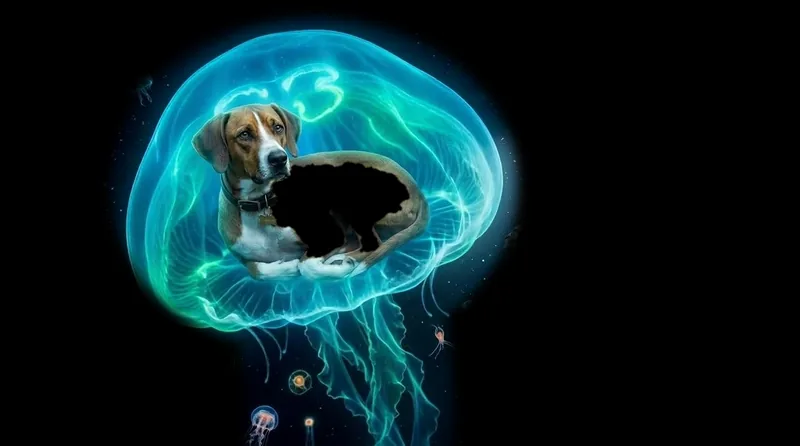
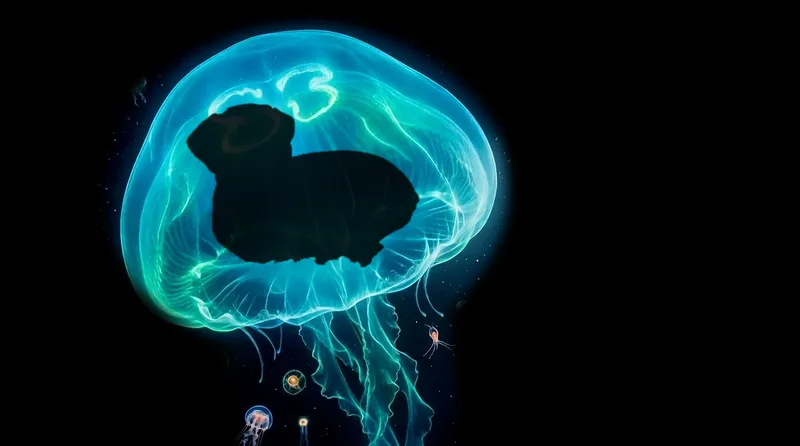
Catalog header: rebuild on the new background, every character on its own layer
- plate: the new background (light shaft, cave wall, small sea life)
  with its big jellyfish faded back to water
- the big jellyfish (screened) and Marley float together; Marley recut
  cleanly with GrabCut (the old colour mask missed her head and white
  fur, hidden until now by the original picture underneath)
- the diver with the cube is its own layer with a slow bob of its own,
  feathered so it blends into the new water
- three small drifters (moon jelly, comb jelly, blue jelly) cross slowly

Claude-Session: https://claude.ai/code/session_0195hiXiVZY5DpQ2CCYEr2vL

diff --git a/index.html b/index.html
@@ -4,7 +4,7 @@
 <meta charset="UTF-8">
 <meta name="viewport" content="width=device-width, initial-scale=1">
 <title>Parts Catalog — Christian Gehrke</title>
-<link rel="stylesheet" href="css/catalog.css?v=1793560000">
+<link rel="stylesheet" href="css/catalog.css?v=1793570000">
 <link rel="stylesheet" href="css/logo.css?v=5">
 <link rel="icon" href="/favicon.ico?v=2" sizes="any"><link rel="icon" href="/favicon.svg?v=2" type="image/svg+xml"><link rel="apple-touch-icon" href="/apple-touch-icon.png?v=2">
 <script>/* Logo season from the calendar (the homepage sets it from its own scene). */document.documentElement.dataset.season=["winter","winter","spring","spring","spring","summer","summer","summer","fall","fall","fall","winter"][new Date().getMonth()];</script>
@@ -13,7 +13,7 @@
 <body class="deep">
 
 <header class="cat-head cat-hero">
-  <div class="hero-stage" aria-hidden="true"><img src="assets/hero/plate.webp" srcset="assets/hero/plate-800.webp 800w, assets/hero/plate.webp 1376w" sizes="max(100vw, 760px)" alt=""><img class="hero-jelly hero-float" src="assets/hero/jelly.webp" srcset="assets/hero/jelly-800.webp 800w, assets/hero/jelly.webp 1376w" sizes="max(100vw, 760px)" alt=""><img class="hero-float" src="assets/hero/dog.webp" srcset="assets/hero/dog-800.webp 800w, assets/hero/dog.webp 1376w" sizes="max(100vw, 760px)" alt=""><svg class="hero-fx" viewBox="0 0 1376 768" preserveAspectRatio="xMidYMid slice"><defs><radialGradient id="hLamp"><stop offset="0" stop-color="#eaf8ff" stop-opacity=".9"/><stop offset=".35" stop-color="#8fd8ff" stop-opacity=".4"/><stop offset="1" stop-color="#3aa0ff" stop-opacity="0"/></radialGradient><radialGradient id="hCube"><stop offset="0" stop-color="#c58bff" stop-opacity=".75"/><stop offset=".45" stop-color="#6fd6ff" stop-opacity=".3"/><stop offset="1" stop-color="#5a3cff" stop-opacity="0"/></radialGradient><radialGradient id="hJelly"><stop offset="0" stop-color="#7fffe0" stop-opacity=".42"/><stop offset=".6" stop-color="#2fd0c8" stop-opacity=".18"/><stop offset="1" stop-color="#0a8fb0" stop-opacity="0"/></radialGradient><radialGradient id="hRay" cx=".5" cy="0" r="1"><stop offset="0" stop-color="#9fe6ff" stop-opacity=".35"/><stop offset="1" stop-color="#2a7fc0" stop-opacity="0"/></radialGradient></defs><ellipse class="hero-glow hero-ray" cx="1080" cy="0" rx="300" ry="420" fill="url(#hRay)"/><g class="hero-float"><circle class="hero-glow hero-g-jelly" cx="538" cy="318" r="330" fill="url(#hJelly)"/></g><circle class="hero-glow hero-g-lamp" cx="920" cy="165" r="95" fill="url(#hLamp)"/><circle class="hero-glow hero-g-lamp2" cx="1158" cy="290" r="88" fill="url(#hLamp)"/><circle class="hero-glow hero-g-cube" cx="875" cy="520" r="150" fill="url(#hCube)"/><g class="hero-snow" fill="#cfefff"><circle cx="705" cy="524" r="1.3" style="animation-duration:20.3s;animation-delay:-20.2s"/><circle cx="221" cy="603" r="1.8" style="animation-duration:23.6s;animation-delay:-22.4s"/><circle cx="75" cy="443" r="2.1" style="animation-duration:15.1s;animation-delay:-8.9s"/><circle cx="1250" cy="371" r="2.1" style="animation-duration:18.1s;animation-delay:-24.0s"/><circle cx="1116" cy="94" r="1.2" style="animation-duration:17.8s;animation-delay:-4.6s"/><circle cx="160" cy="641" r="1.0" style="animation-duration:22.3s;animation-delay:-25.9s"/><circle cx="330" cy="737" r="0.9" style="animation-duration:25.8s;animation-delay:-13.9s"/><circle cx="831" cy="32" r="1.1" style="animation-duration:21.1s;animation-delay:-21.5s"/><circle cx="933" cy="666" r="1.4" style="animation-duration:14.7s;animation-delay:-23.8s"/><circle cx="67" cy="505" r="1.3" style="animation-duration:16.5s;animation-delay:-25.5s"/><circle cx="1155" cy="135" r="1.7" style="animation-duration:23.5s;animation-delay:-2.8s"/><circle cx="889" cy="381" r="1.0" style="animation-duration:24.1s;animation-delay:-7.7s"/><circle cx="928" cy="635" r="2.0" style="animation-duration:25.7s;animation-delay:-11.8s"/><circle cx="999" cy="705" r="1.8" style="animation-duration:19.7s;animation-delay:-7.6s"/><circle cx="826" cy="150" r="1.0" style="animation-duration:23.9s;animation-delay:-13.8s"/><circle cx="367" cy="642" r="2.1" style="animation-duration:24.4s;animation-delay:-4.7s"/><circle cx="1007" cy="278" r="1.5" style="animation-duration:20.6s;animation-delay:-13.1s"/><circle cx="129" cy="364" r="1.8" style="animation-duration:22.0s;animation-delay:-19.8s"/><circle cx="744" cy="572" r="1.8" style="animation-duration:17.4s;animation-delay:-12.6s"/><circle cx="601" cy="348" r="1.7" style="animation-duration:21.0s;animation-delay:-0.3s"/><circle cx="1120" cy="256" r="1.3" style="animation-duration:17.3s;animation-delay:-7.5s"/><circle cx="1024" cy="662" r="1.7" style="animation-duration:18.3s;animation-delay:-7.1s"/><circle cx="707" cy="755" r="2.1" style="animation-duration:18.9s;animation-delay:-24.0s"/><circle cx="353" cy="704" r="1.4" style="animation-duration:18.4s;animation-delay:-8.7s"/><circle cx="290" cy="542" r="2.2" style="animation-duration:16.4s;animation-delay:-9.4s"/><circle cx="977" cy="289" r="1.8" style="animation-duration:22.6s;animation-delay:-19.0s"/><circle cx="351" cy="631" r="1.9" style="animation-duration:21.0s;animation-delay:-17.3s"/><circle cx="861" cy="309" r="1.7" style="animation-duration:23.3s;animation-delay:-16.6s"/><circle cx="56" cy="200" r="1.0" style="animation-duration:19.3s;animation-delay:-16.9s"/><circle cx="448" cy="702" r="1.1" style="animation-duration:22.6s;animation-delay:-25.6s"/><circle cx="463" cy="169" r="0.9" style="animation-duration:15.6s;animation-delay:-8.3s"/><circle cx="371" cy="494" r="1.1" style="animation-duration:14.4s;animation-delay:-12.1s"/><circle cx="778" cy="678" r="1.7" style="animation-duration:21.1s;animation-delay:-6.2s"/><circle cx="765" cy="0" r="1.3" style="animation-duration:25.4s;animation-delay:-22.3s"/><circle cx="235" cy="705" r="2.0" style="animation-duration:18.5s;animation-delay:-0.9s"/><circle cx="1256" cy="308" r="0.9" style="animation-duration:20.5s;animation-delay:-8.8s"/><circle cx="1189" cy="300" r="2.1" style="animation-duration:23.8s;animation-delay:-10.9s"/><circle cx="1154" cy="657" r="1.6" style="animation-duration:19.6s;animation-delay:-4.1s"/><circle cx="783" cy="577" r="1.5" style="animation-duration:16.4s;animation-delay:-3.5s"/><circle cx="186" cy="359" r="1.9" style="animation-duration:21.9s;animation-delay:-9.9s"/><circle cx="667" cy="579" r="2.1" style="animation-duration:20.5s;animation-delay:-8.5s"/><circle cx="1155" cy="384" r="1.4" style="animation-duration:25.7s;animation-delay:-12.8s"/><circle cx="982" cy="725" r="1.3" style="animation-duration:25.5s;animation-delay:-23.8s"/><circle cx="1220" cy="608" r="1.2" style="animation-duration:25.8s;animation-delay:-12.9s"/><circle cx="850" cy="20" r="1.2" style="animation-duration:25.8s;animation-delay:-12.8s"/><circle cx="586" cy="146" r="1.5" style="animation-duration:15.5s;animation-delay:-16.2s"/></g><g fill="none" stroke="#bfeeff" stroke-width="1.6" opacity=".85"><circle class="hero-bub" cx="1024" cy="92" r="3.9" style="--sw:-14px;animation-duration:6.1s;animation-delay:-5.5s"/><circle class="hero-bub" cx="1038" cy="92" r="4.6" style="--sw:-8px;animation-duration:7.8s;animation-delay:-5.2s"/><circle class="hero-bub" cx="992" cy="92" r="4.3" style="--sw:-14px;animation-duration:7.6s;animation-delay:-3.0s"/><circle class="hero-bub" cx="1021" cy="92" r="3.9" style="--sw:-8px;animation-duration:7.2s;animation-delay:-3.3s"/><circle class="hero-bub" cx="1043" cy="92" r="6.0" style="--sw:-14px;animation-duration:6.2s;animation-delay:-6.1s"/><circle class="hero-bub" cx="993" cy="92" r="5.2" style="--sw:-14px;animation-duration:6.3s;animation-delay:-1.1s"/><circle class="hero-bub" cx="998" cy="92" r="5.7" style="--sw:-8px;animation-duration:7.9s;animation-delay:-1.3s"/><circle class="hero-bub" cx="1183" cy="108" r="3.3" style="--sw:-10px;animation-duration:6.1s;animation-delay:-7.0s"/><circle class="hero-bub" cx="1176" cy="108" r="4.9" style="--sw:10px;animation-duration:7.6s;animation-delay:-7.7s"/><circle class="hero-bub" cx="1184" cy="108" r="2.6" style="--sw:10px;animation-duration:6.7s;animation-delay:-7.5s"/><circle class="hero-bub" cx="1169" cy="108" r="3.3" style="--sw:10px;animation-duration:8.0s;animation-delay:-4.7s"/><circle class="hero-bub" cx="1169" cy="108" r="3.3" style="--sw:10px;animation-duration:8.0s;animation-delay:-3.8s"/><circle class="hero-bub" cx="517" cy="60" r="3.0" style="--sw:-10px;animation-duration:9.1s;animation-delay:-0.6s"/><circle class="hero-bub" cx="561" cy="60" r="3.7" style="--sw:10px;animation-duration:7.1s;animation-delay:-7.9s"/><circle class="hero-bub" cx="566" cy="60" r="3.2" style="--sw:-10px;animation-duration:7.0s;animation-delay:-0.5s"/><circle class="hero-bub" cx="629" cy="60" r="3.9" style="--sw:10px;animation-duration:7.6s;animation-delay:-7.6s"/></g></svg></div>
+  <div class="hero-stage" aria-hidden="true"><img src="assets/hero/plate.webp" srcset="assets/hero/plate-800.webp 800w, assets/hero/plate.webp 1376w" sizes="max(100vw, 760px)" alt=""><img class="hero-critter hc-1" src="assets/hero/c-moon.webp" alt=""><img class="hero-critter hc-2" src="assets/hero/c-comb.webp" alt=""><img class="hero-critter hc-3" src="assets/hero/c-blue.webp" alt=""><img class="hero-jelly hero-float" src="assets/hero/jelly.webp" srcset="assets/hero/jelly-800.webp 800w, assets/hero/jelly.webp 1376w" sizes="max(100vw, 760px)" alt=""><img class="hero-float" src="assets/hero/dog.webp" srcset="assets/hero/dog-800.webp 800w, assets/hero/dog.webp 1376w" sizes="max(100vw, 760px)" alt=""><img class="hero-diver" src="assets/hero/diver.webp" srcset="assets/hero/diver-800.webp 800w, assets/hero/diver.webp 1376w" sizes="max(100vw, 760px)" alt=""><svg class="hero-fx" viewBox="0 0 1376 768" preserveAspectRatio="xMidYMid slice"><defs><radialGradient id="hLamp"><stop offset="0" stop-color="#eaf8ff" stop-opacity=".9"/><stop offset=".35" stop-color="#8fd8ff" stop-opacity=".4"/><stop offset="1" stop-color="#3aa0ff" stop-opacity="0"/></radialGradient><radialGradient id="hCube"><stop offset="0" stop-color="#c58bff" stop-opacity=".75"/><stop offset=".45" stop-color="#6fd6ff" stop-opacity=".3"/><stop offset="1" stop-color="#5a3cff" stop-opacity="0"/></radialGradient><radialGradient id="hJelly"><stop offset="0" stop-color="#7fffe0" stop-opacity=".42"/><stop offset=".6" stop-color="#2fd0c8" stop-opacity=".18"/><stop offset="1" stop-color="#0a8fb0" stop-opacity="0"/></radialGradient><radialGradient id="hRay" cx=".5" cy="0" r="1"><stop offset="0" stop-color="#9fe6ff" stop-opacity=".35"/><stop offset="1" stop-color="#2a7fc0" stop-opacity="0"/></radialGradient></defs><ellipse class="hero-glow hero-ray" cx="1080" cy="0" rx="300" ry="420" fill="url(#hRay)"/><g class="hero-float"><circle class="hero-glow hero-g-jelly" cx="538" cy="318" r="330" fill="url(#hJelly)"/></g><circle class="hero-glow hero-g-lamp" cx="920" cy="165" r="95" fill="url(#hLamp)"/><circle class="hero-glow hero-g-lamp2" cx="1158" cy="290" r="88" fill="url(#hLamp)"/><circle class="hero-glow hero-g-cube" cx="875" cy="520" r="150" fill="url(#hCube)"/><g class="hero-snow" fill="#cfefff"><circle cx="705" cy="524" r="1.3" style="animation-duration:20.3s;animation-delay:-20.2s"/><circle cx="221" cy="603" r="1.8" style="animation-duration:23.6s;animation-delay:-22.4s"/><circle cx="75" cy="443" r="2.1" style="animation-duration:15.1s;animation-delay:-8.9s"/><circle cx="1250" cy="371" r="2.1" style="animation-duration:18.1s;animation-delay:-24.0s"/><circle cx="1116" cy="94" r="1.2" style="animation-duration:17.8s;animation-delay:-4.6s"/><circle cx="160" cy="641" r="1.0" style="animation-duration:22.3s;animation-delay:-25.9s"/><circle cx="330" cy="737" r="0.9" style="animation-duration:25.8s;animation-delay:-13.9s"/><circle cx="831" cy="32" r="1.1" style="animation-duration:21.1s;animation-delay:-21.5s"/><circle cx="933" cy="666" r="1.4" style="animation-duration:14.7s;animation-delay:-23.8s"/><circle cx="67" cy="505" r="1.3" style="animation-duration:16.5s;animation-delay:-25.5s"/><circle cx="1155" cy="135" r="1.7" style="animation-duration:23.5s;animation-delay:-2.8s"/><circle cx="889" cy="381" r="1.0" style="animation-duration:24.1s;animation-delay:-7.7s"/><circle cx="928" cy="635" r="2.0" style="animation-duration:25.7s;animation-delay:-11.8s"/><circle cx="999" cy="705" r="1.8" style="animation-duration:19.7s;animation-delay:-7.6s"/><circle cx="826" cy="150" r="1.0" style="animation-duration:23.9s;animation-delay:-13.8s"/><circle cx="367" cy="642" r="2.1" style="animation-duration:24.4s;animation-delay:-4.7s"/><circle cx="1007" cy="278" r="1.5" style="animation-duration:20.6s;animation-delay:-13.1s"/><circle cx="129" cy="364" r="1.8" style="animation-duration:22.0s;animation-delay:-19.8s"/><circle cx="744" cy="572" r="1.8" style="animation-duration:17.4s;animation-delay:-12.6s"/><circle cx="601" cy="348" r="1.7" style="animation-duration:21.0s;animation-delay:-0.3s"/><circle cx="1120" cy="256" r="1.3" style="animation-duration:17.3s;animation-delay:-7.5s"/><circle cx="1024" cy="662" r="1.7" style="animation-duration:18.3s;animation-delay:-7.1s"/><circle cx="707" cy="755" r="2.1" style="animation-duration:18.9s;animation-delay:-24.0s"/><circle cx="353" cy="704" r="1.4" style="animation-duration:18.4s;animation-delay:-8.7s"/><circle cx="290" cy="542" r="2.2" style="animation-duration:16.4s;animation-delay:-9.4s"/><circle cx="977" cy="289" r="1.8" style="animation-duration:22.6s;animation-delay:-19.0s"/><circle cx="351" cy="631" r="1.9" style="animation-duration:21.0s;animation-delay:-17.3s"/><circle cx="861" cy="309" r="1.7" style="animation-duration:23.3s;animation-delay:-16.6s"/><circle cx="56" cy="200" r="1.0" style="animation-duration:19.3s;animation-delay:-16.9s"/><circle cx="448" cy="702" r="1.1" style="animation-duration:22.6s;animation-delay:-25.6s"/><circle cx="463" cy="169" r="0.9" style="animation-duration:15.6s;animation-delay:-8.3s"/><circle cx="371" cy="494" r="1.1" style="animation-duration:14.4s;animation-delay:-12.1s"/><circle cx="778" cy="678" r="1.7" style="animation-duration:21.1s;animation-delay:-6.2s"/><circle cx="765" cy="0" r="1.3" style="animation-duration:25.4s;animation-delay:-22.3s"/><circle cx="235" cy="705" r="2.0" style="animation-duration:18.5s;animation-delay:-0.9s"/><circle cx="1256" cy="308" r="0.9" style="animation-duration:20.5s;animation-delay:-8.8s"/><circle cx="1189" cy="300" r="2.1" style="animation-duration:23.8s;animation-delay:-10.9s"/><circle cx="1154" cy="657" r="1.6" style="animation-duration:19.6s;animation-delay:-4.1s"/><circle cx="783" cy="577" r="1.5" style="animation-duration:16.4s;animation-delay:-3.5s"/><circle cx="186" cy="359" r="1.9" style="animation-duration:21.9s;animation-delay:-9.9s"/><circle cx="667" cy="579" r="2.1" style="animation-duration:20.5s;animation-delay:-8.5s"/><circle cx="1155" cy="384" r="1.4" style="animation-duration:25.7s;animation-delay:-12.8s"/><circle cx="982" cy="725" r="1.3" style="animation-duration:25.5s;animation-delay:-23.8s"/><circle cx="1220" cy="608" r="1.2" style="animation-duration:25.8s;animation-delay:-12.9s"/><circle cx="850" cy="20" r="1.2" style="animation-duration:25.8s;animation-delay:-12.8s"/><circle cx="586" cy="146" r="1.5" style="animation-duration:15.5s;animation-delay:-16.2s"/></g><g fill="none" stroke="#bfeeff" stroke-width="1.6" opacity=".85"><circle class="hero-bub" cx="1024" cy="92" r="3.9" style="--sw:-14px;animation-duration:6.1s;animation-delay:-5.5s"/><circle class="hero-bub" cx="1038" cy="92" r="4.6" style="--sw:-8px;animation-duration:7.8s;animation-delay:-5.2s"/><circle class="hero-bub" cx="992" cy="92" r="4.3" style="--sw:-14px;animation-duration:7.6s;animation-delay:-3.0s"/><circle class="hero-bub" cx="1021" cy="92" r="3.9" style="--sw:-8px;animation-duration:7.2s;animation-delay:-3.3s"/><circle class="hero-bub" cx="1043" cy="92" r="6.0" style="--sw:-14px;animation-duration:6.2s;animation-delay:-6.1s"/><circle class="hero-bub" cx="993" cy="92" r="5.2" style="--sw:-14px;animation-duration:6.3s;animation-delay:-1.1s"/><circle class="hero-bub" cx="998" cy="92" r="5.7" style="--sw:-8px;animation-duration:7.9s;animation-delay:-1.3s"/><circle class="hero-bub" cx="1183" cy="108" r="3.3" style="--sw:-10px;animation-duration:6.1s;animation-delay:-7.0s"/><circle class="hero-bub" cx="1176" cy="108" r="4.9" style="--sw:10px;animation-duration:7.6s;animation-delay:-7.7s"/><circle class="hero-bub" cx="1184" cy="108" r="2.6" style="--sw:10px;animation-duration:6.7s;animation-delay:-7.5s"/><circle class="hero-bub" cx="1169" cy="108" r="3.3" style="--sw:10px;animation-duration:8.0s;animation-delay:-4.7s"/><circle class="hero-bub" cx="1169" cy="108" r="3.3" style="--sw:10px;animation-duration:8.0s;animation-delay:-3.8s"/><circle class="hero-bub" cx="517" cy="60" r="3.0" style="--sw:-10px;animation-duration:9.1s;animation-delay:-0.6s"/><circle class="hero-bub" cx="561" cy="60" r="3.7" style="--sw:10px;animation-duration:7.1s;animation-delay:-7.9s"/><circle class="hero-bub" cx="566" cy="60" r="3.2" style="--sw:-10px;animation-duration:7.0s;animation-delay:-0.5s"/><circle class="hero-bub" cx="629" cy="60" r="3.9" style="--sw:10px;animation-duration:7.6s;animation-delay:-7.6s"/></g></svg></div>
   <div class="hero-text"><a class="cat-brand" href="../">Parts Catalog</a>
   <p class="cat-tagline">Every object the scene engine knows how to build — searchable, grouped, and demoed live with the same code that runs in production. New parts start in the <a href="workshop.html">Workshop</a>.</p></div>
 </header>

diff --git a/css/catalog.css b/css/catalog.css
@@ -341,7 +341,17 @@ body.deep .cat-body p.cat-tags{color:var(--d-ink2)!important}
 .cat-hero{--hh:clamp(340px,40vw,600px);position:relative;height:var(--hh);padding:0;overflow:hidden;background:#061429;isolation:isolate}
 .hero-stage{position:absolute;left:50%;top:50%;width:clamp(calc(var(--hh) * 1.7917),100%,calc(var(--hh) * 2.3));
   -webkit-mask-image:linear-gradient(90deg,transparent 0,#000 7%,#000 93%,transparent 100%);mask-image:linear-gradient(90deg,transparent 0,#000 7%,#000 93%,transparent 100%);aspect-ratio:1376/768;transform:translate(-50%,-50%);z-index:-1}
-.hero-stage>img,.hero-fx{position:absolute;inset:0;width:100%;height:100%;display:block}
+.hero-stage>img:not(.hero-critter),.hero-fx{position:absolute;inset:0;width:100%;height:100%;display:block}
+.hero-diver{animation:hero-diver 9s ease-in-out infinite}
+@keyframes hero-diver{0%,100%{transform:translate(0,0)}50%{transform:translate(-.4%,1.1%)}}
+/* A few small drifters cross the water slowly, on screen so they read as light */
+.hero-critter{position:absolute;display:block;mix-blend-mode:screen;opacity:.8;pointer-events:none}
+.hc-1{width:7%;left:4%;top:62%;animation:hc-a 46s linear infinite}
+.hc-2{width:4.5%;left:58%;top:70%;animation:hc-b 38s linear infinite -12s}
+.hc-3{width:5%;left:20%;top:8%;animation:hc-c 52s linear infinite -20s}
+@keyframes hc-a{0%{transform:translate(0,0)}50%{transform:translate(160%,-60%) rotate(6deg)}100%{transform:translate(0,0)}}
+@keyframes hc-b{0%{transform:translate(0,0) rotate(-8deg)}50%{transform:translate(-220%,-90%) rotate(4deg)}100%{transform:translate(0,0) rotate(-8deg)}}
+@keyframes hc-c{0%{transform:translate(0,0) rotate(20deg)}50%{transform:translate(180%,140%) rotate(10deg)}100%{transform:translate(0,0) rotate(20deg)}}
 .hero-jelly{mix-blend-mode:screen}
 .hero-float{animation:hero-float 8s ease-in-out infinite}
 .hero-glow{mix-blend-mode:screen;animation:dp-pulse 4.2s ease-in-out infinite}
@@ -360,5 +370,5 @@ body.deep .cat-body p.cat-tags{color:var(--d-ink2)!important}
 .cat-hero .cat-brand{font-size:clamp(32px,4.6vw,54px);letter-spacing:-.01em;color:#e9fbff;text-shadow:0 0 18px rgba(79,216,232,.55),0 2px 10px rgba(0,0,0,.6)}
 .cat-hero .cat-tagline{color:#cfe9f3;text-shadow:0 1px 8px rgba(0,0,0,.7);margin-top:6px}
 @media (max-width:640px){.cat-hero{--hh:360px}.hero-stage{left:58%}.cat-hero .cat-tagline{font-size:14px}}
-@media (prefers-reduced-motion:reduce){.hero-float,.hero-glow,.hero-ray,.hero-bub,.hero-snow circle{animation:none}.hero-glow{opacity:.6}}
+@media (prefers-reduced-motion:reduce){.hero-diver,.hero-critter,.hero-float,.hero-glow,.hero-ray,.hero-bub,.hero-snow circle{animation:none}.hero-glow{opacity:.6}}
 body.deep{background:linear-gradient(180deg,#061429 0,#071a33 420px,#040b1a 100%) fixed}
